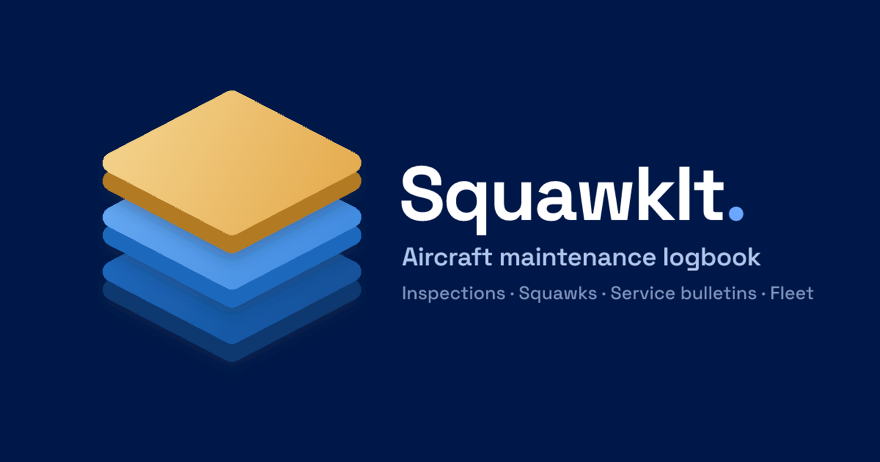
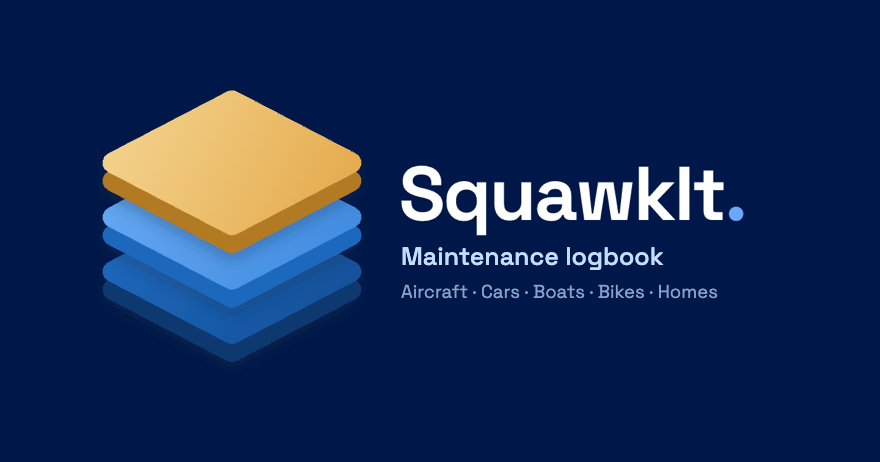
Describe SquawkIt as a logbook for everything, not only aircraft
The banner and the card text still called SquawkIt an aircraft maintenance
logbook. It now covers cars, boats, bikes and homes too, so the banner reads
"Maintenance logbook" with the five kinds listed under it, and the card
paragraph and alt text say the same.

Claude-Session: https://claude.ai/code/session_01FncdUVjxkyMTHF2FHMCRSz

Changed region(s): [[0.4602, 0.5152, 0.9205, 0.6667]]

diff --git a/index.html b/index.html
@@ -291,10 +291,10 @@
       <div class="eyebrow"><span class="num">03</span><span class="lbl">Selected Projects</span><span class="rule"></span></div>
       <div class="projects">
         <div class="proj">
-          <div class="media"><img src="img/squawkit.png" alt="SquawkIt — aircraft maintenance logbook" loading="lazy"></div>
+          <div class="media"><img src="img/squawkit.png" alt="SquawkIt — maintenance logbook for aircraft, cars, boats, bikes, and homes" loading="lazy"></div>
           <div class="ph"><h3>SquawkIt</h3></div>
           <div class="links"><a href="https://squawkit.fanfly.dev" target="_blank" rel="noopener">Live site</a></div>
-          <p>Aircraft-maintenance logbook for pilots and owners. Tracks inspections, service bulletins, squawks, and engine hours across a whole fleet — local-first and offline-capable, with on-demand PDF reports for pre-buys and annuals. One Compose Multiplatform codebase shipping to Android, iOS, and the web.</p>
+          <p>Maintenance logbook for everything you own: aircraft first, then cars, boats, bikes, and homes. Logs squawks, tracks tasks due by calendar or by meter, and keeps the paperwork attached — local-first and offline-capable, with a full-history export to hand to a mechanic or a buyer. One Compose Multiplatform codebase shipping to Android, iOS, and the web.</p>
           <div class="tags"><span class="tag">Kotlin</span><span class="tag">KMP</span><span class="tag">Compose</span><span class="tag">SQLDelight</span><span class="tag">Firebase</span></div>
         </div>
         <div class="proj">
